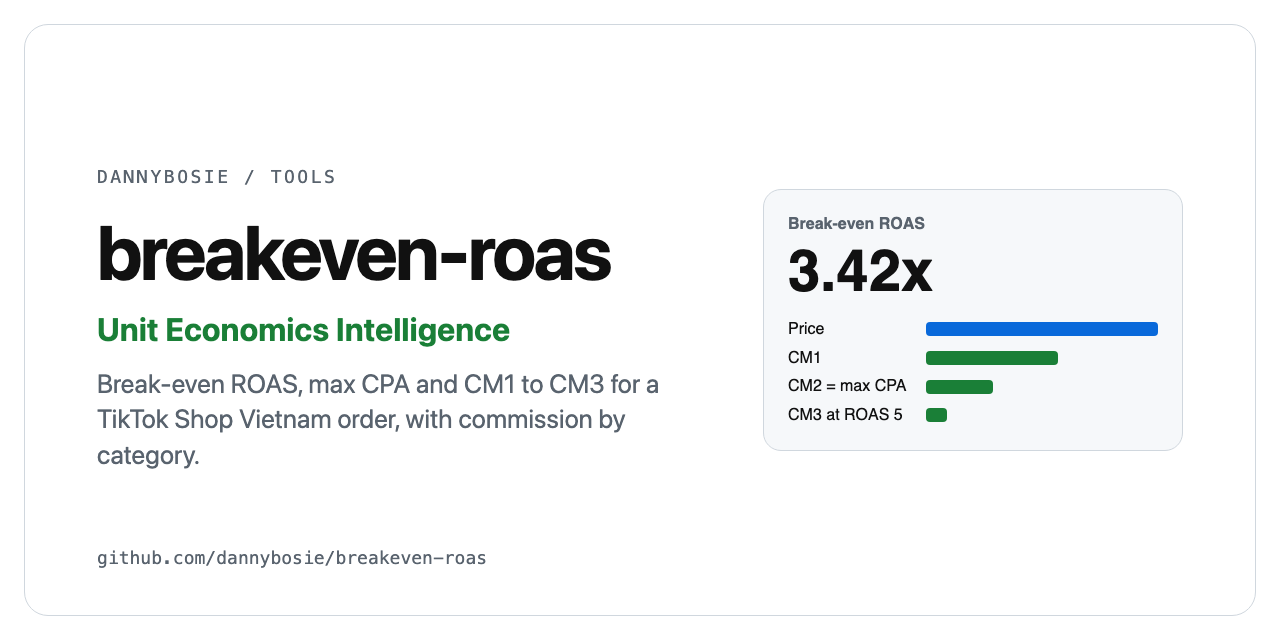
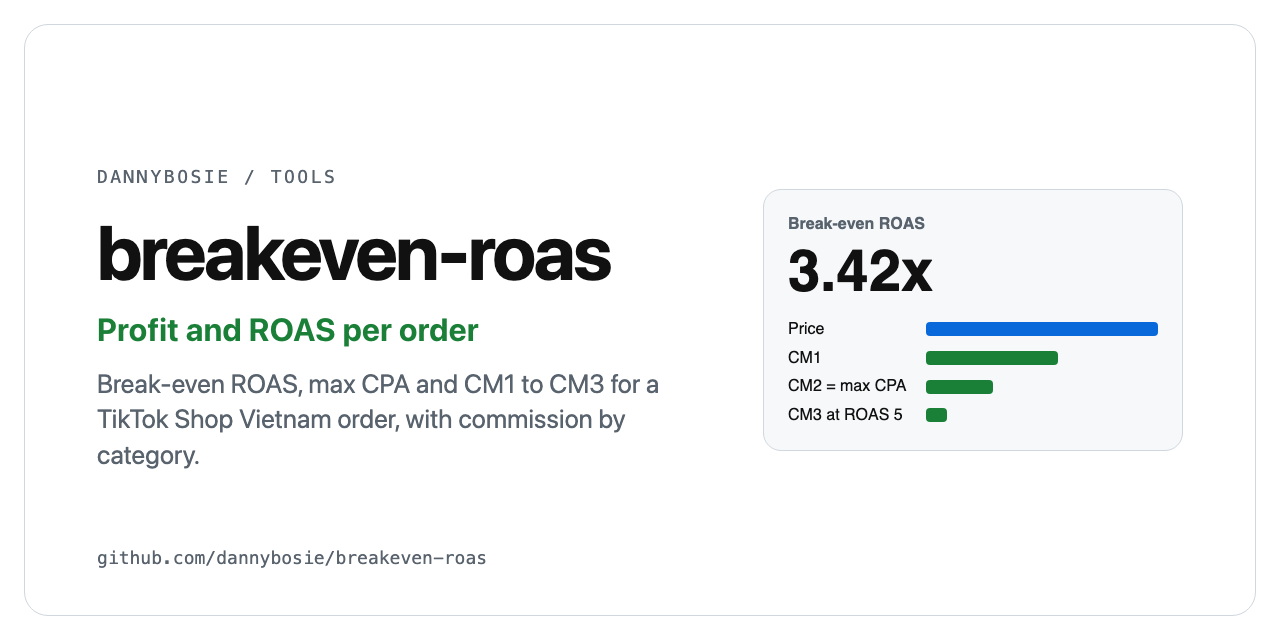
Describe the calculator plainly and show the schedule's effective date
Replace the tagline with a plain description in the README, page, CLI help
and package metadata, and name the author the same way as the other tools.

The commission hint now shows the date the fee schedule took effect
(3 July 2026 for standard shops, 3 August 2026 for Mall) instead of the
dataset's internal version id.

Refresh the screenshot and social image to match.

Changed region(s): [[0.0625, 0.5, 0.4062, 0.5625]]

diff --git a/src/web/i18n.ts b/src/web/i18n.ts
@@ -2,11 +2,11 @@ export type Lang = "en" | "vi";
 
 export const STRINGS = {
   en: {
-    tagline: "Unit Economics Intelligence for TikTok Shop Vietnam",
+    tagline: "Break-even ROAS calculator for TikTok Shop Vietnam",
     lede: "Put in a price and a landed cost. See how much each order can pay for ads, the ROAS you have to beat, and what is left at the ROAS you plan for. Commission comes from the category, fees from TikTok Shop's current schedule.",
     product: "Product", price: "Selling price per order (VND)", landed: "Landed cost per order (VND)", landedHint: "Product, freight, import tax, packaging.",
     category: "Category", searchPh: "Search a category, e.g. gấu bông, son môi, tai nghe", tier: "Shop type", standard: "Standard", mall: "Mall",
-    commission: "Commission (%)", commissionFrom: "From the {version} schedule. Edit to override.",
+    commission: "Commission (%)", commissionFrom: "From the schedule effective {date}. Edit to override.",
     fees: "Platform fees", payment: "Payment fee (%)", tax: "Tax withheld (%)", taxHint: "1.5% for household businesses (1% VAT + 0.5% PIT). 0% for companies.",
     vxp: "Voucher Xtra (%)", vxpHint: "4% if enrolled, capped at 50,000 VND per order.", orderFee: "Order fee (VND)", shipping: "Shipping you pay (VND per order)",
     risk: "Returns and channels", returns: "Returns and refunds (% of revenue)", other: "Other variable cost (%)", otherHint: "Warehouse, staff, anything that scales with orders.", affiliate: "Affiliate commission (%)",
@@ -24,11 +24,11 @@ export const STRINGS = {
     noCategory: "None chosen, so the default rate applies:",
   },
   vi: {
-    tagline: "Tính kinh tế đơn vị cho TikTok Shop Việt Nam",
+    tagline: "Công cụ tính ROAS hoà vốn cho TikTok Shop Việt Nam",
     lede: "Nhập giá bán và giá vốn. Xem mỗi đơn chịu được bao nhiêu tiền quảng cáo, ROAS tối thiểu phải vượt, và còn lại bao nhiêu ở ROAS bạn dự kiến. Hoa hồng lấy theo ngành hàng, phí lấy theo biểu phí hiện hành của TikTok Shop.",
     product: "Sản phẩm", price: "Giá bán mỗi đơn (VND)", landed: "Giá vốn về kho mỗi đơn (VND)", landedHint: "Tiền hàng, vận chuyển, thuế nhập khẩu, đóng gói.",
     category: "Ngành hàng", searchPh: "Tìm ngành hàng, ví dụ: gấu bông, son môi, tai nghe", tier: "Loại shop", standard: "Thường", mall: "Mall",
-    commission: "Hoa hồng (%)", commissionFrom: "Theo biểu phí {version}. Sửa để ghi đè.",
+    commission: "Hoa hồng (%)", commissionFrom: "Theo biểu phí áp dụng từ {date}. Sửa để ghi đè.",
     fees: "Phí sàn", payment: "Phí giao dịch (%)", tax: "Thuế khấu trừ (%)", taxHint: "1,5% với hộ kinh doanh (1% GTGT + 0,5% TNCN). 0% với doanh nghiệp.",
     vxp: "Voucher Xtra (%)", vxpHint: "4% nếu tham gia, tối đa 50.000 VND mỗi đơn.", orderFee: "Phí xử lý đơn (VND)", shipping: "Phí ship shop chịu (VND mỗi đơn)",
     risk: "Hoàn hàng và kênh", returns: "Hoàn hàng, hoàn tiền (% doanh thu)", other: "Chi phí biến đổi khác (%)", otherHint: "Kho, nhân sự, mọi thứ tăng theo số đơn.", affiliate: "Hoa hồng affiliate (%)",

diff --git a/site/index.html b/site/index.html
@@ -3,9 +3,9 @@
 <head>
   <meta charset="utf-8">
   <meta name="viewport" content="width=device-width, initial-scale=1">
-  <title>breakeven-roas · Unit Economics Intelligence for TikTok Shop Vietnam</title>
+  <title>breakeven-roas · Break-even ROAS calculator for TikTok Shop Vietnam</title>
   <meta name="description" content="Break-even ROAS, max CPA and contribution margin (CM1, CM2, CM3) for a TikTok Shop Vietnam order, with commission by category from the open dataset. Free, runs in your browser. English and Vietnamese.">
-  <meta property="og:title" content="breakeven-roas · Unit Economics Intelligence for TikTok Shop Vietnam">
+  <meta property="og:title" content="breakeven-roas · Break-even ROAS calculator for TikTok Shop Vietnam">
   <meta property="og:description" content="How much each order can pay for ads, the ROAS you have to beat, and what is left at your plan.">
   <meta property="og:image" content="https://dannybosie.github.io/breakeven-roas/og.png">
   <meta name="twitter:card" content="summary_large_image">
@@ -128,7 +128,7 @@
     </main>
 
     <footer class="bottom">
-      Built by <a href="https://github.com/dannybosie">Thinh Nguyen (Danny)</a>, a growth marketer who ships tools. MIT licensed. Commission data: <a href="https://github.com/dannybosie/tiktok-shop-vn-commission-rates">tiktok-shop-vn-commission-rates</a>, CC BY 4.0.
+      Built by <a href="https://github.com/dannybosie">Thinh Nguyen (Danny)</a>, founder of <a href="https://ordinex.cc">Ordinex</a>. MIT licensed. Commission data: <a href="https://github.com/dannybosie/tiktok-shop-vn-commission-rates">tiktok-shop-vn-commission-rates</a>, CC BY 4.0.
       <ul>
         <li><a href="https://dannybosie.github.io/slop-lint/">slop-lint</a></li>
         <li><a href="https://dannybosie.github.io/utm-governor/">utm-governor</a></li>

diff --git a/src/web/main.ts b/src/web/main.ts
@@ -42,6 +42,12 @@ const L = (key: Key, vars?: Record<string, string>) => t(state.lang, key, vars);
 const locale = () => (state.lang === "vi" ? "vi-VN" : "en-US");
 const vnd = (n: number) => (Number.isFinite(n) ? `${Math.round(n).toLocaleString(locale())} ₫` : "n/a");
 const pctf = (n: number, d = 1) => (Number.isFinite(n) ? `${n.toLocaleString(locale(), { maximumFractionDigits: d, minimumFractionDigits: d })}%` : "n/a");
+const MONTHS = ["January", "February", "March", "April", "May", "June", "July", "August", "September", "October", "November", "December"];
+/** "2026-07-03" as "3 July 2026" in English and "03/07/2026" in Vietnamese. */
+const dateLabel = (iso: string) => {
+  const [y, m, d] = iso.split("-");
+  return state.lang === "vi" ? `${d}/${m}/${y}` : `${Number(d)} ${MONTHS[Number(m) - 1]} ${y}`;
+};
 const roasf = (n: number) => (Number.isFinite(n) ? `${n.toLocaleString(locale(), { maximumFractionDigits: 2, minimumFractionDigits: 2 })}x` : "∞");
 
 function applyLanguage(): void {
@@ -70,7 +76,8 @@ function renderCategory(): void {
   } else {
     chosen.innerHTML = `<span class="muted">${esc(L("noCategory"))} ${pctf(SCHEDULE.defaults[state.tier])}</span>`;
   }
-  $("commission-hint").textContent = L("commissionFrom", { version: SCHEDULE.version });
+  const effective = state.tier === "mall" ? SCHEDULE.mallEffectiveFrom : SCHEDULE.standardEffectiveFrom;
+  $("commission-hint").textContent = L("commissionFrom", { date: dateLabel(effective) });
 }
 
 function tierTag(tier: string): string {

diff --git a/src/cli.ts b/src/cli.ts
@@ -4,7 +4,7 @@ import { TIKTOK_VN_DEFAULTS, type UnitInput, computeUnit, sensitivity } from "./
 
 const VERSION = "1.0.0";
 const HELP = `breakeven-roas ${VERSION}
-Unit Economics Intelligence for TikTok Shop Vietnam: break-even ROAS, max CPA and CM1 to CM3 for one order.
+Break-even ROAS, max CPA and CM1 to CM3 for one TikTok Shop Vietnam order.
 
 Usage
   breakeven-roas --price 199000 --cost 85000 [--category "gấu bông"] [--mall] [options]

diff --git a/dist/cli.js b/dist/cli.js
@@ -116,7 +116,7 @@ var TIKTOK_VN_DEFAULTS = {
 // src/cli.ts
 var VERSION = "1.0.0";
 var HELP = `breakeven-roas ${VERSION}
-Unit Economics Intelligence for TikTok Shop Vietnam: break-even ROAS, max CPA and CM1 to CM3 for one order.
+Break-even ROAS, max CPA and CM1 to CM3 for one TikTok Shop Vietnam order.
 
 Usage
   breakeven-roas --price 199000 --cost 85000 [--category "g\u1EA5u b\xF4ng"] [--mall] [options]

diff --git a/README.md b/README.md
@@ -1,6 +1,6 @@
 # breakeven-roas
 
-**Unit Economics Intelligence for TikTok Shop Vietnam.** Put in a price and a landed cost. See how much each order can pay for ads, the ROAS you have to beat, and what is left at the ROAS you plan for, with commission looked up by category and fees from TikTok Shop's current schedule.
+**A break-even ROAS calculator for TikTok Shop Vietnam orders.** Put in a price and a landed cost. See how much each order can pay for ads, the ROAS you have to beat, and what is left at the ROAS you plan for, with commission looked up by category and fees from TikTok Shop's current schedule.
 
 **[Open the calculator](https://dannybosie.github.io/breakeven-roas/)**, in English or Vietnamese. It runs in your browser, and a scenario can be shared as a link.
 
